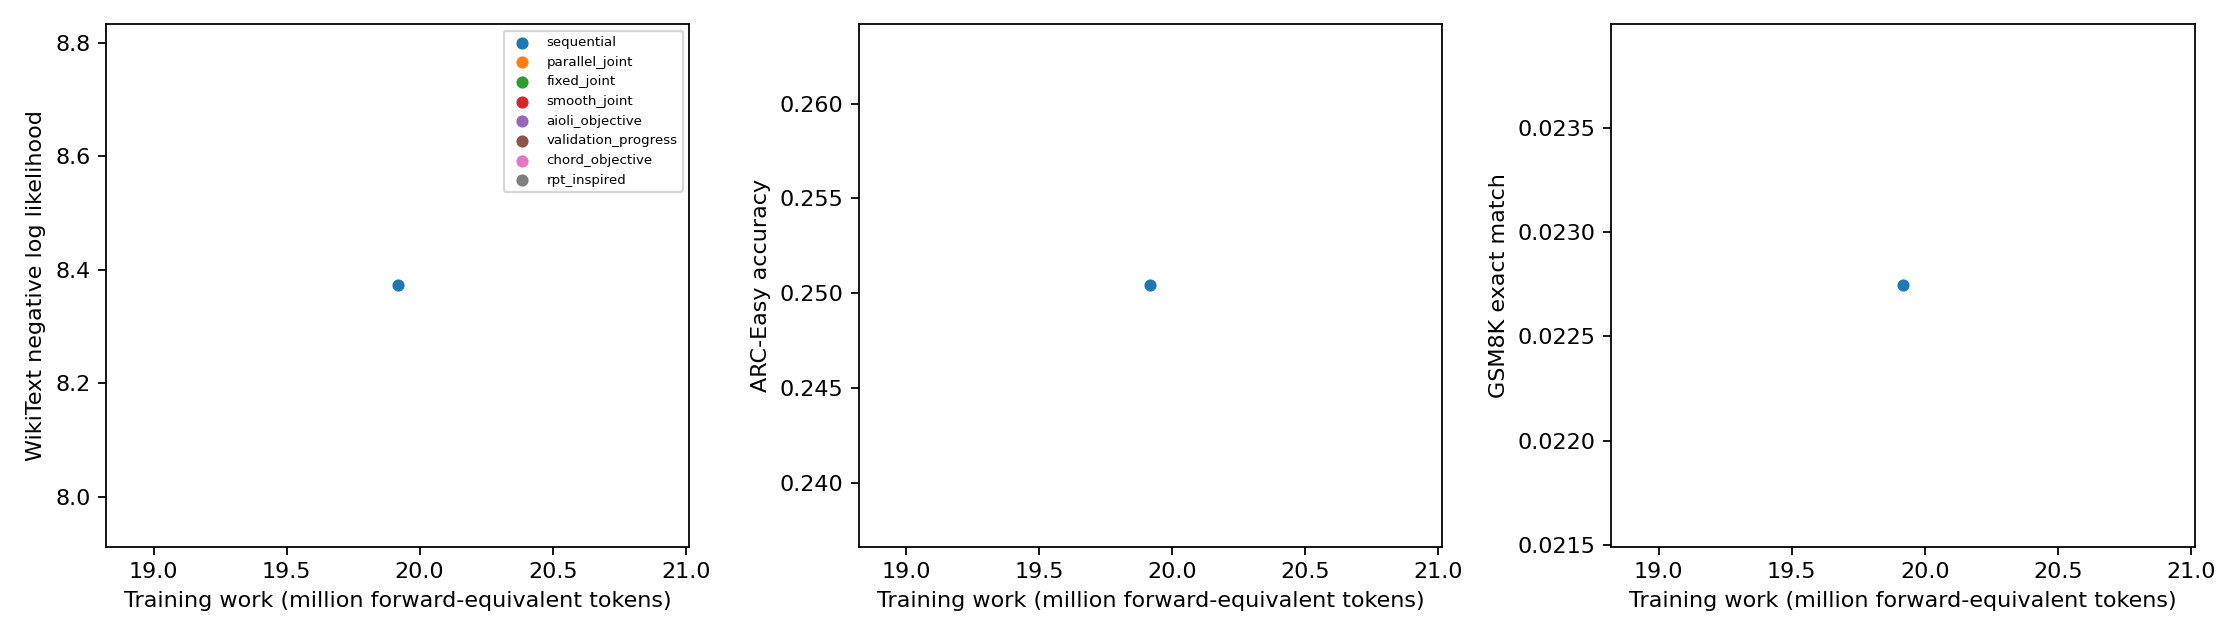
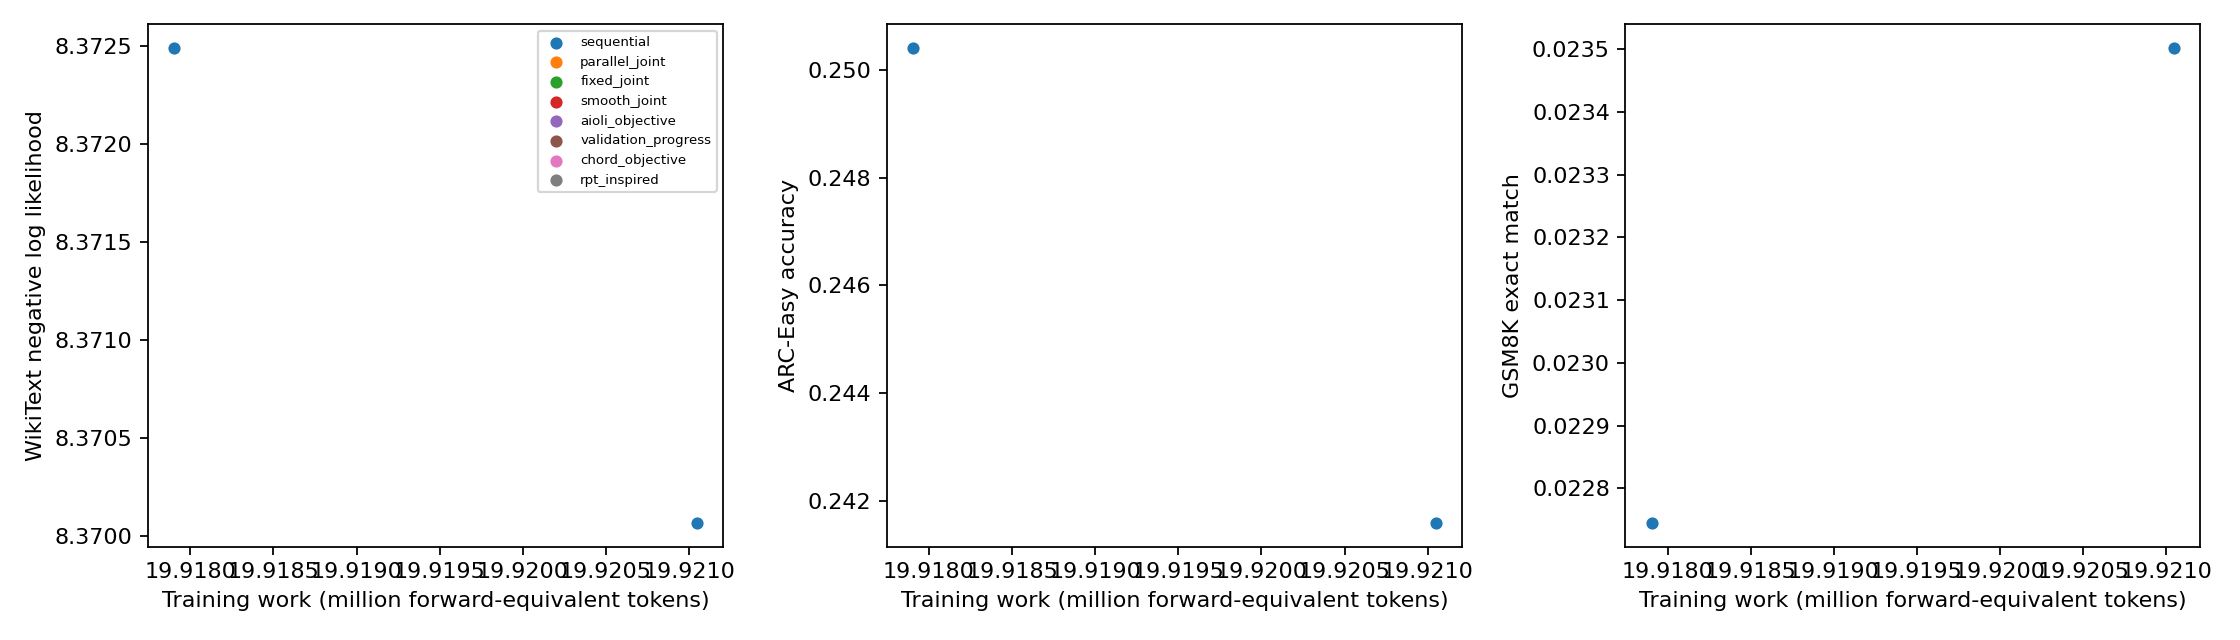
Report verified unified-training pilot progress

diff --git a/experiments/01_scratch_joint_objectives/results.md b/experiments/01_scratch_joint_objectives/results.md
@@ -5,7 +5,7 @@
 | Method | Seed | Status | Training work (million forward-equivalent tokens) | ARC-Easy accuracy | GSM8K exact match | WikiText NLL | Preference raw / implicit accuracy |
 |---|---:|---|---:|---:|---:|---:|---|
 | sequential | 0 | complete | 19.918 | 0.2504 [0.2334, 0.2682] | 0.0227 [0.0160, 0.0323] | 8.3725 [8.3531, 8.3909] | 0.5234 [0.4624, 0.5838] / 0.4922 [0.4315, 0.5531] |
-| sequential | 1 | pending | unavailable | unavailable | unavailable | unavailable | unavailable |
+| sequential | 1 | complete | 19.921 | 0.2416 [0.2248, 0.2592] | 0.0235 [0.0166, 0.0332] | 8.3701 [8.3468, 8.3929] | 0.5312 [0.4701, 0.5915] / 0.4688 [0.4085, 0.5299] |
 | sequential | 2 | pending | unavailable | unavailable | unavailable | unavailable | unavailable |
 | parallel_joint | 0 | pending | unavailable | unavailable | unavailable | unavailable | unavailable |
 | parallel_joint | 1 | pending | unavailable | unavailable | unavailable | unavailable | unavailable |
@@ -33,7 +33,7 @@ NLL = negative log likelihood; preference raw ordering is the preference endpoin
 
 Intervals: 95% Wilson binary-item score, conditional on each trained model; p-val=n/a (no hypothesis test). Three seeds do not establish universal superiority. Aioli, CHORD (Controllable Harmonization of On- and Off-Policy Reinforcement Learning via Dynamic Weighting), and RPT (Reinforcement Pre-Training) are declared adaptations; exact CHERRY-RL identity remains unresolved.
 
-Complete: 1/24. See `expt_v1/PROTOCOL.md` and the program review reconciliation.
+Complete: 2/24. See `expt_v1/PROTOCOL.md` and the program review reconciliation.
 
 Seed uncertainty, two-stage seed/item intervals, initial-checkpoint changes and all paired comparisons: `expt_v1/analysis.json`. Missing trained seeds remain missing with separate accuracy sensitivity bounds. p-val=n/a throughout; no formal superiority verdict.
 

diff --git a/experiments/00_program/FINAL_STATUS.md b/experiments/00_program/FINAL_STATUS.md
@@ -1,6 +1,6 @@
 # Full-program status
 
-Verified cells: 1/48; failed: 0; interrupted: 0; pending: 47; unstarted at global bound: 0.
+Verified cells: 2/48; failed: 0; interrupted: 0; pending: 46; unstarted at global bound: 0.
 
 Full-program execution is incomplete. Required plan and implementation findings are reconciled; see acceptance.json.
 Results and uncertainty are in each experiment folder; no universal-superiority claim.
